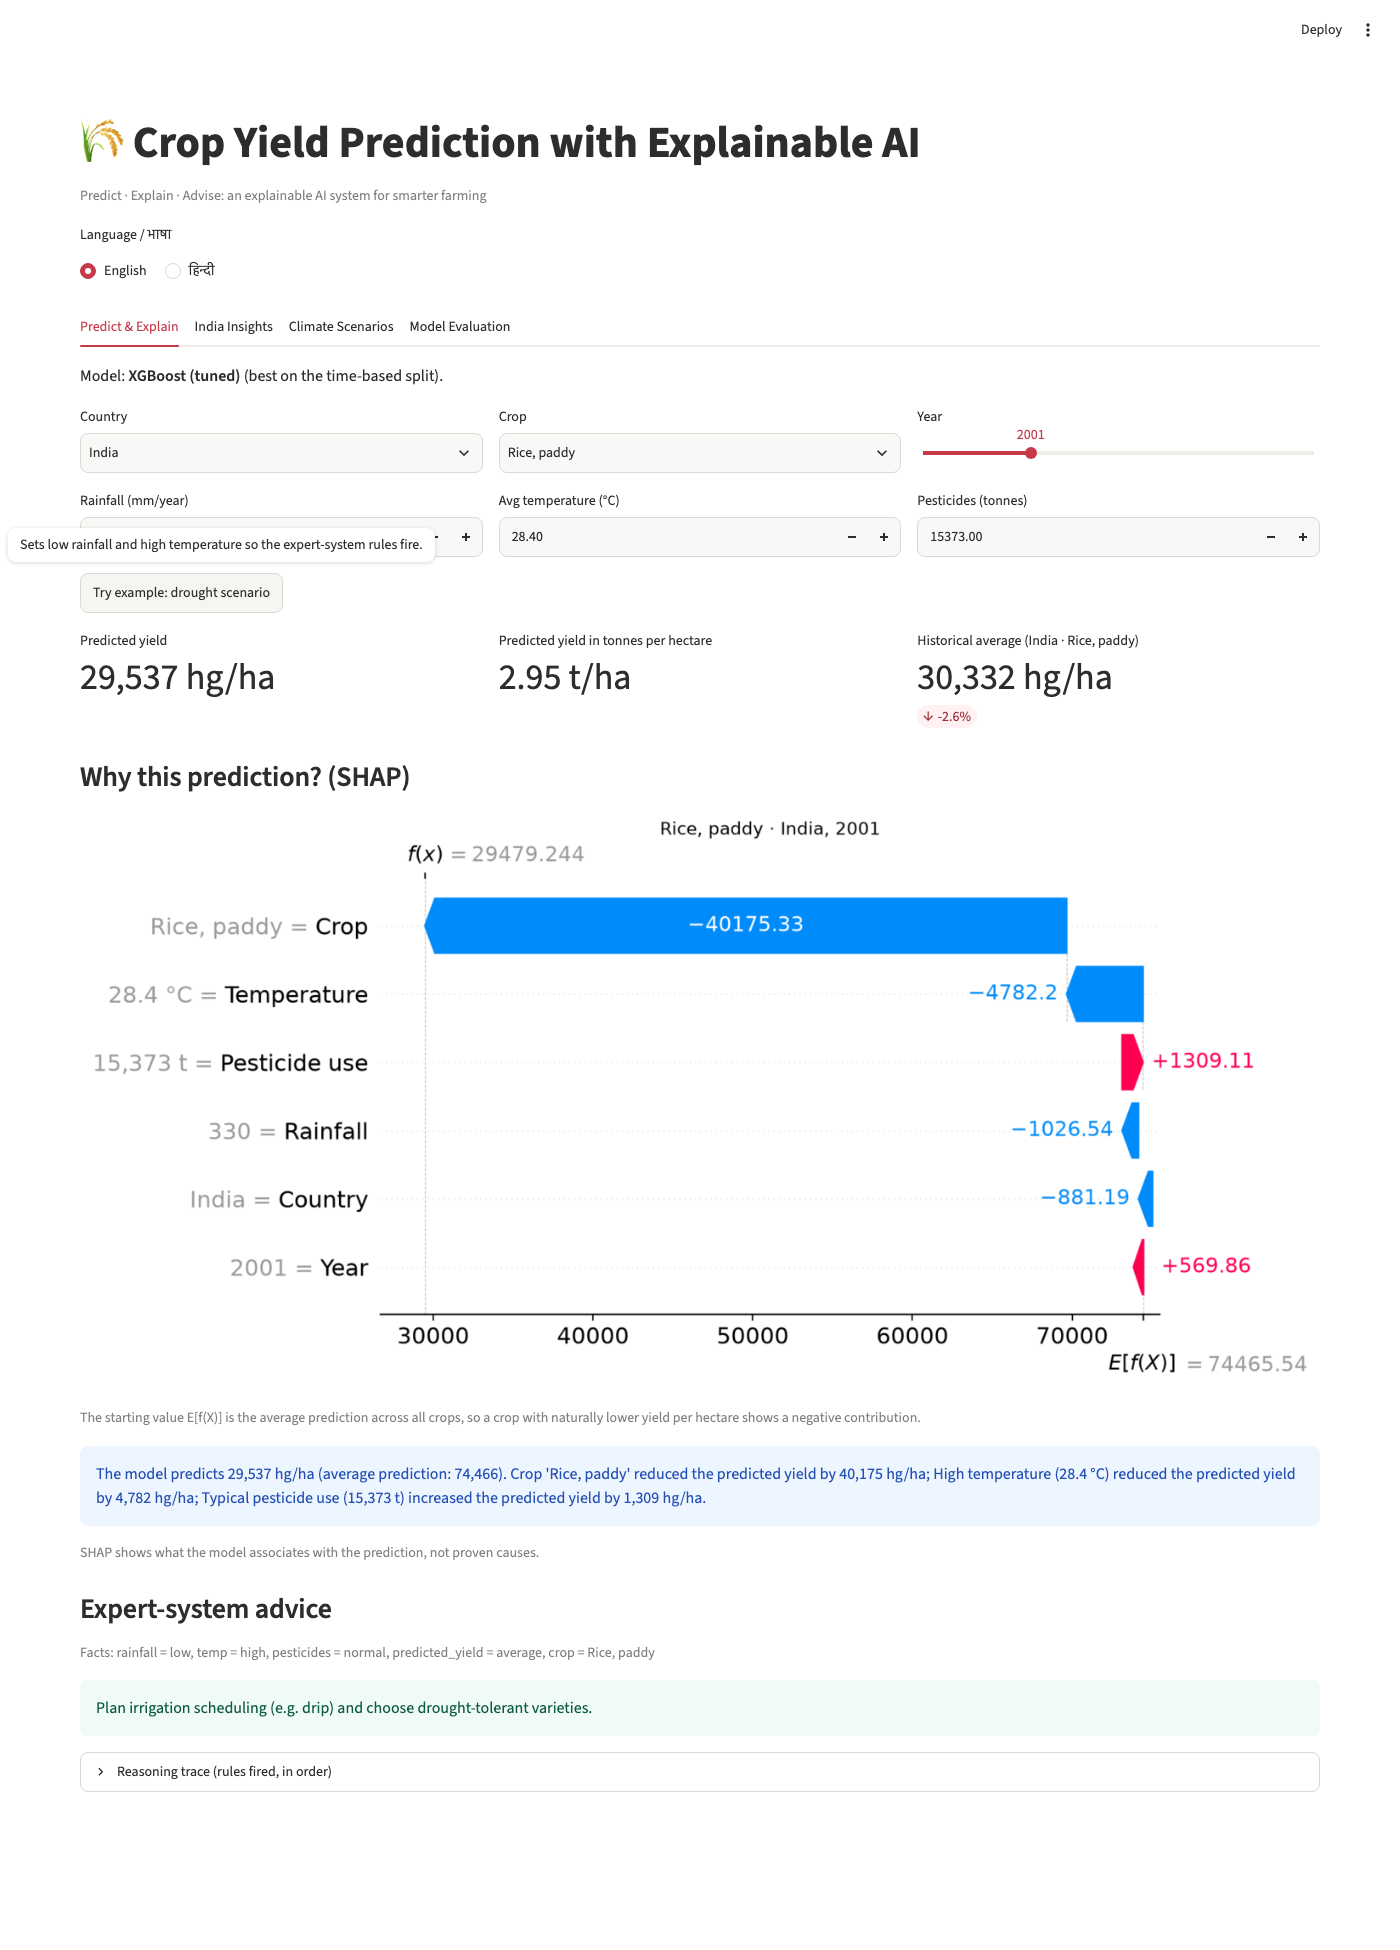
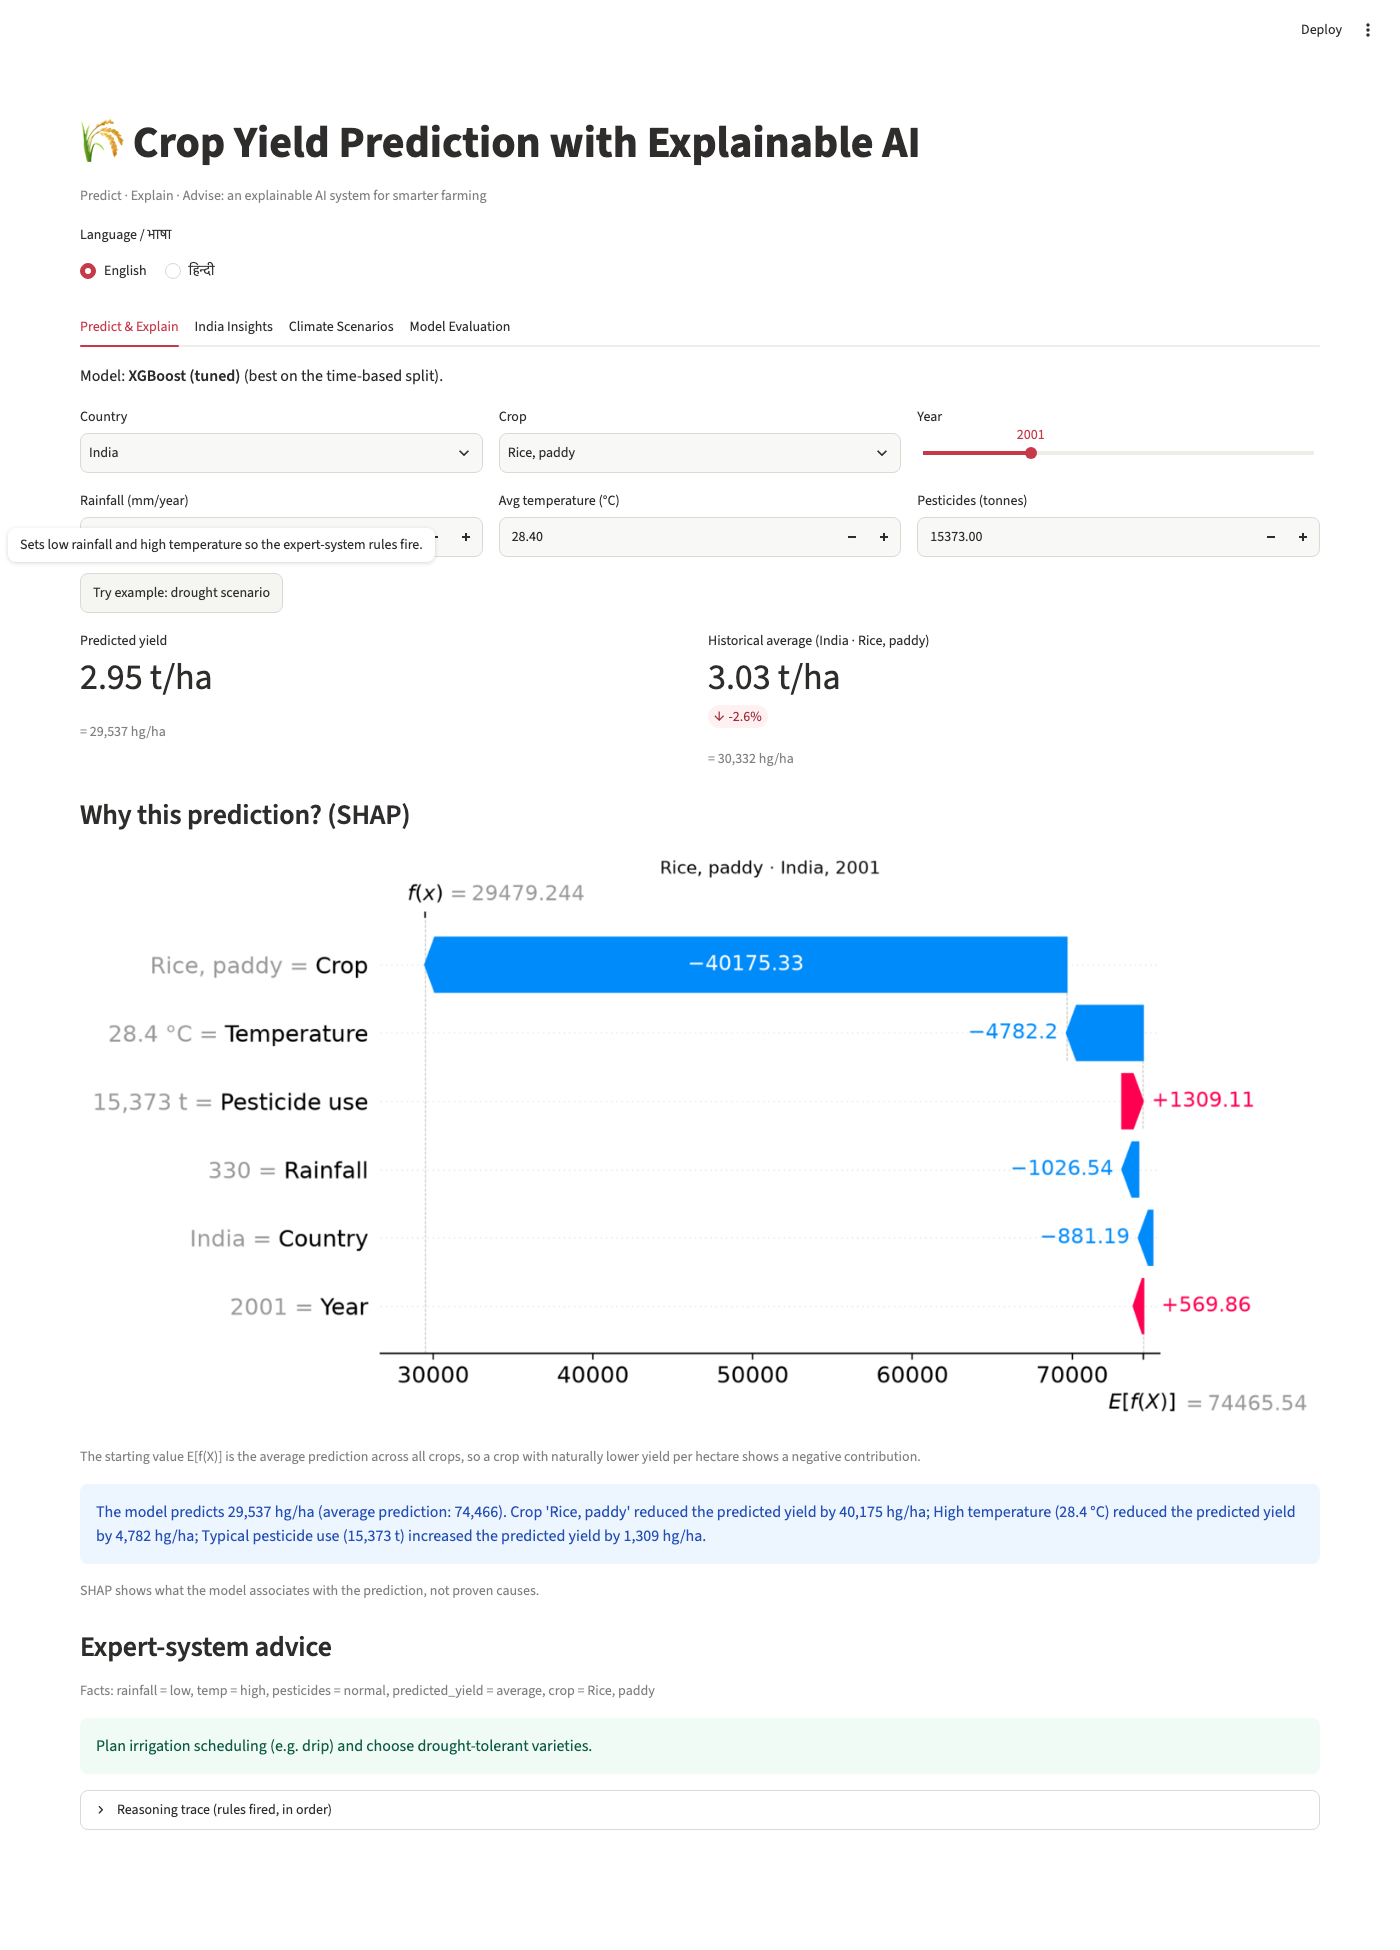
Predict & Explain: one Predicted yield metric and a Historical average metric, both in t/ha with the hg/ha value as a caption

diff --git a/tests/test_app.py b/tests/test_app.py
@@ -97,3 +97,16 @@ def test_unchecking_typical_area_enables_the_override(app_en):
     assert not at.number_input(key="rec_area_Maharashtra_Rabi").disabled
     at.checkbox(key="rec_use_typical__en").check().run()
     assert at.number_input(key="rec_area_Maharashtra_Rabi").disabled
+
+
+def test_predict_tab_metrics_share_one_unit(app_en):
+    """Predicted yield and Historical average are both shown in t/ha, with the hg/ha value as a caption."""
+    import re
+    pred, hist = app_en.metric[0], app_en.metric[1]            # the first two metrics are the Predict & Explain tab's
+    assert pred.label == "Predicted yield" and hist.label.startswith("Historical average")
+    assert re.fullmatch(r"\d+\.\d{2} t/ha", pred.value) and re.fullmatch(r"\d+\.\d{2} t/ha", hist.value)
+    caps = [c.value for c in app_en.caption]
+    pred_hg = round(float(pred.value.split()[0]) * 1e4, -2)           # t/ha -> hg/ha (to the nearest 100)
+    assert any(re.fullmatch(r"= [\d,]+ hg/ha", c) for c in caps)
+    assert any(abs(int(c[2:].split()[0].replace(",", "")) - pred_hg) <= 100 for c in caps if c.startswith("= "))
+    assert not any(x.label.startswith("= ") for x in app_en.metric)   # the old separate tonnes metric is gone

diff --git a/app.py b/app.py
@@ -209,10 +209,13 @@ with tab1:
     hist = gdf[(gdf[C.G_COUNTRY] == country) & (gdf[C.G_CROP] == crop)][C.G_TARGET]
     hist_avg = hist.mean() if len(hist) else gdf[gdf[C.G_CROP] == crop][C.G_TARGET].mean()
     basis = f"{country} · {crop}" if len(hist) else tr("basis_no_history", crop=crop, country=country)
-    k1, k2, k3 = st.columns(3)
-    k1.metric(tr("pred_yield"), f"{pred:,.0f} hg/ha")
-    k2.metric(tr("tonnes_per_ha"), f"{pred * C.HG_PER_HA_TO_T_PER_HA:.2f} t/ha")
-    k3.metric(tr("hist_avg", basis=basis), f"{hist_avg:,.0f} hg/ha", f"{(pred / hist_avg - 1) * 100:+.1f}%")
+    # Both metrics use t/ha so the % comparison is like-for-like; the hg/ha value sits underneath as a caption.
+    k1, k2 = st.columns(2)
+    k1.metric(tr("pred_yield"), f"{pred * C.HG_PER_HA_TO_T_PER_HA:.2f} t/ha")
+    k1.caption(f"= {pred:,.0f} hg/ha")
+    k2.metric(tr("hist_avg", basis=basis), f"{hist_avg * C.HG_PER_HA_TO_T_PER_HA:.2f} t/ha",
+              f"{(pred / hist_avg - 1) * 100:+.1f}%")
+    k2.caption(f"= {hist_avg:,.0f} hg/ha")
 
     show_explanation(ex, row, "hg/ha", f"{crop} · {country}, {year}")
 

diff --git a/src/i18n.py b/src/i18n.py
@@ -57,7 +57,6 @@ _add("drought_help_global", "Sets low rainfall and high temperature so the exper
 _add("drought_help_india", "Sets Kharif season, low rainfall and a high temperature outlook so the expert-system rules fire.",
      "खरीफ सीज़न, कम वर्षा और अधिक तापमान का अनुमान भर देता है, ताकि विशेषज्ञ प्रणाली के नियम लागू हों।")
 _add("pred_yield", "Predicted yield", "अनुमानित उपज")
-_add("tonnes_per_ha", "Predicted yield in tonnes per hectare", "अनुमानित उपज (टन प्रति हेक्टेयर)")
 _add("hist_avg", "Historical average ({basis})", "ऐतिहासिक औसत ({basis})")
 _add("basis_no_history", "{crop} (all countries; no {country} history)", "{crop} (सभी देश; {country} का कोई इतिहास नहीं)")
 _add("basis_state_crop", "state · crop", "राज्य · फसल")
